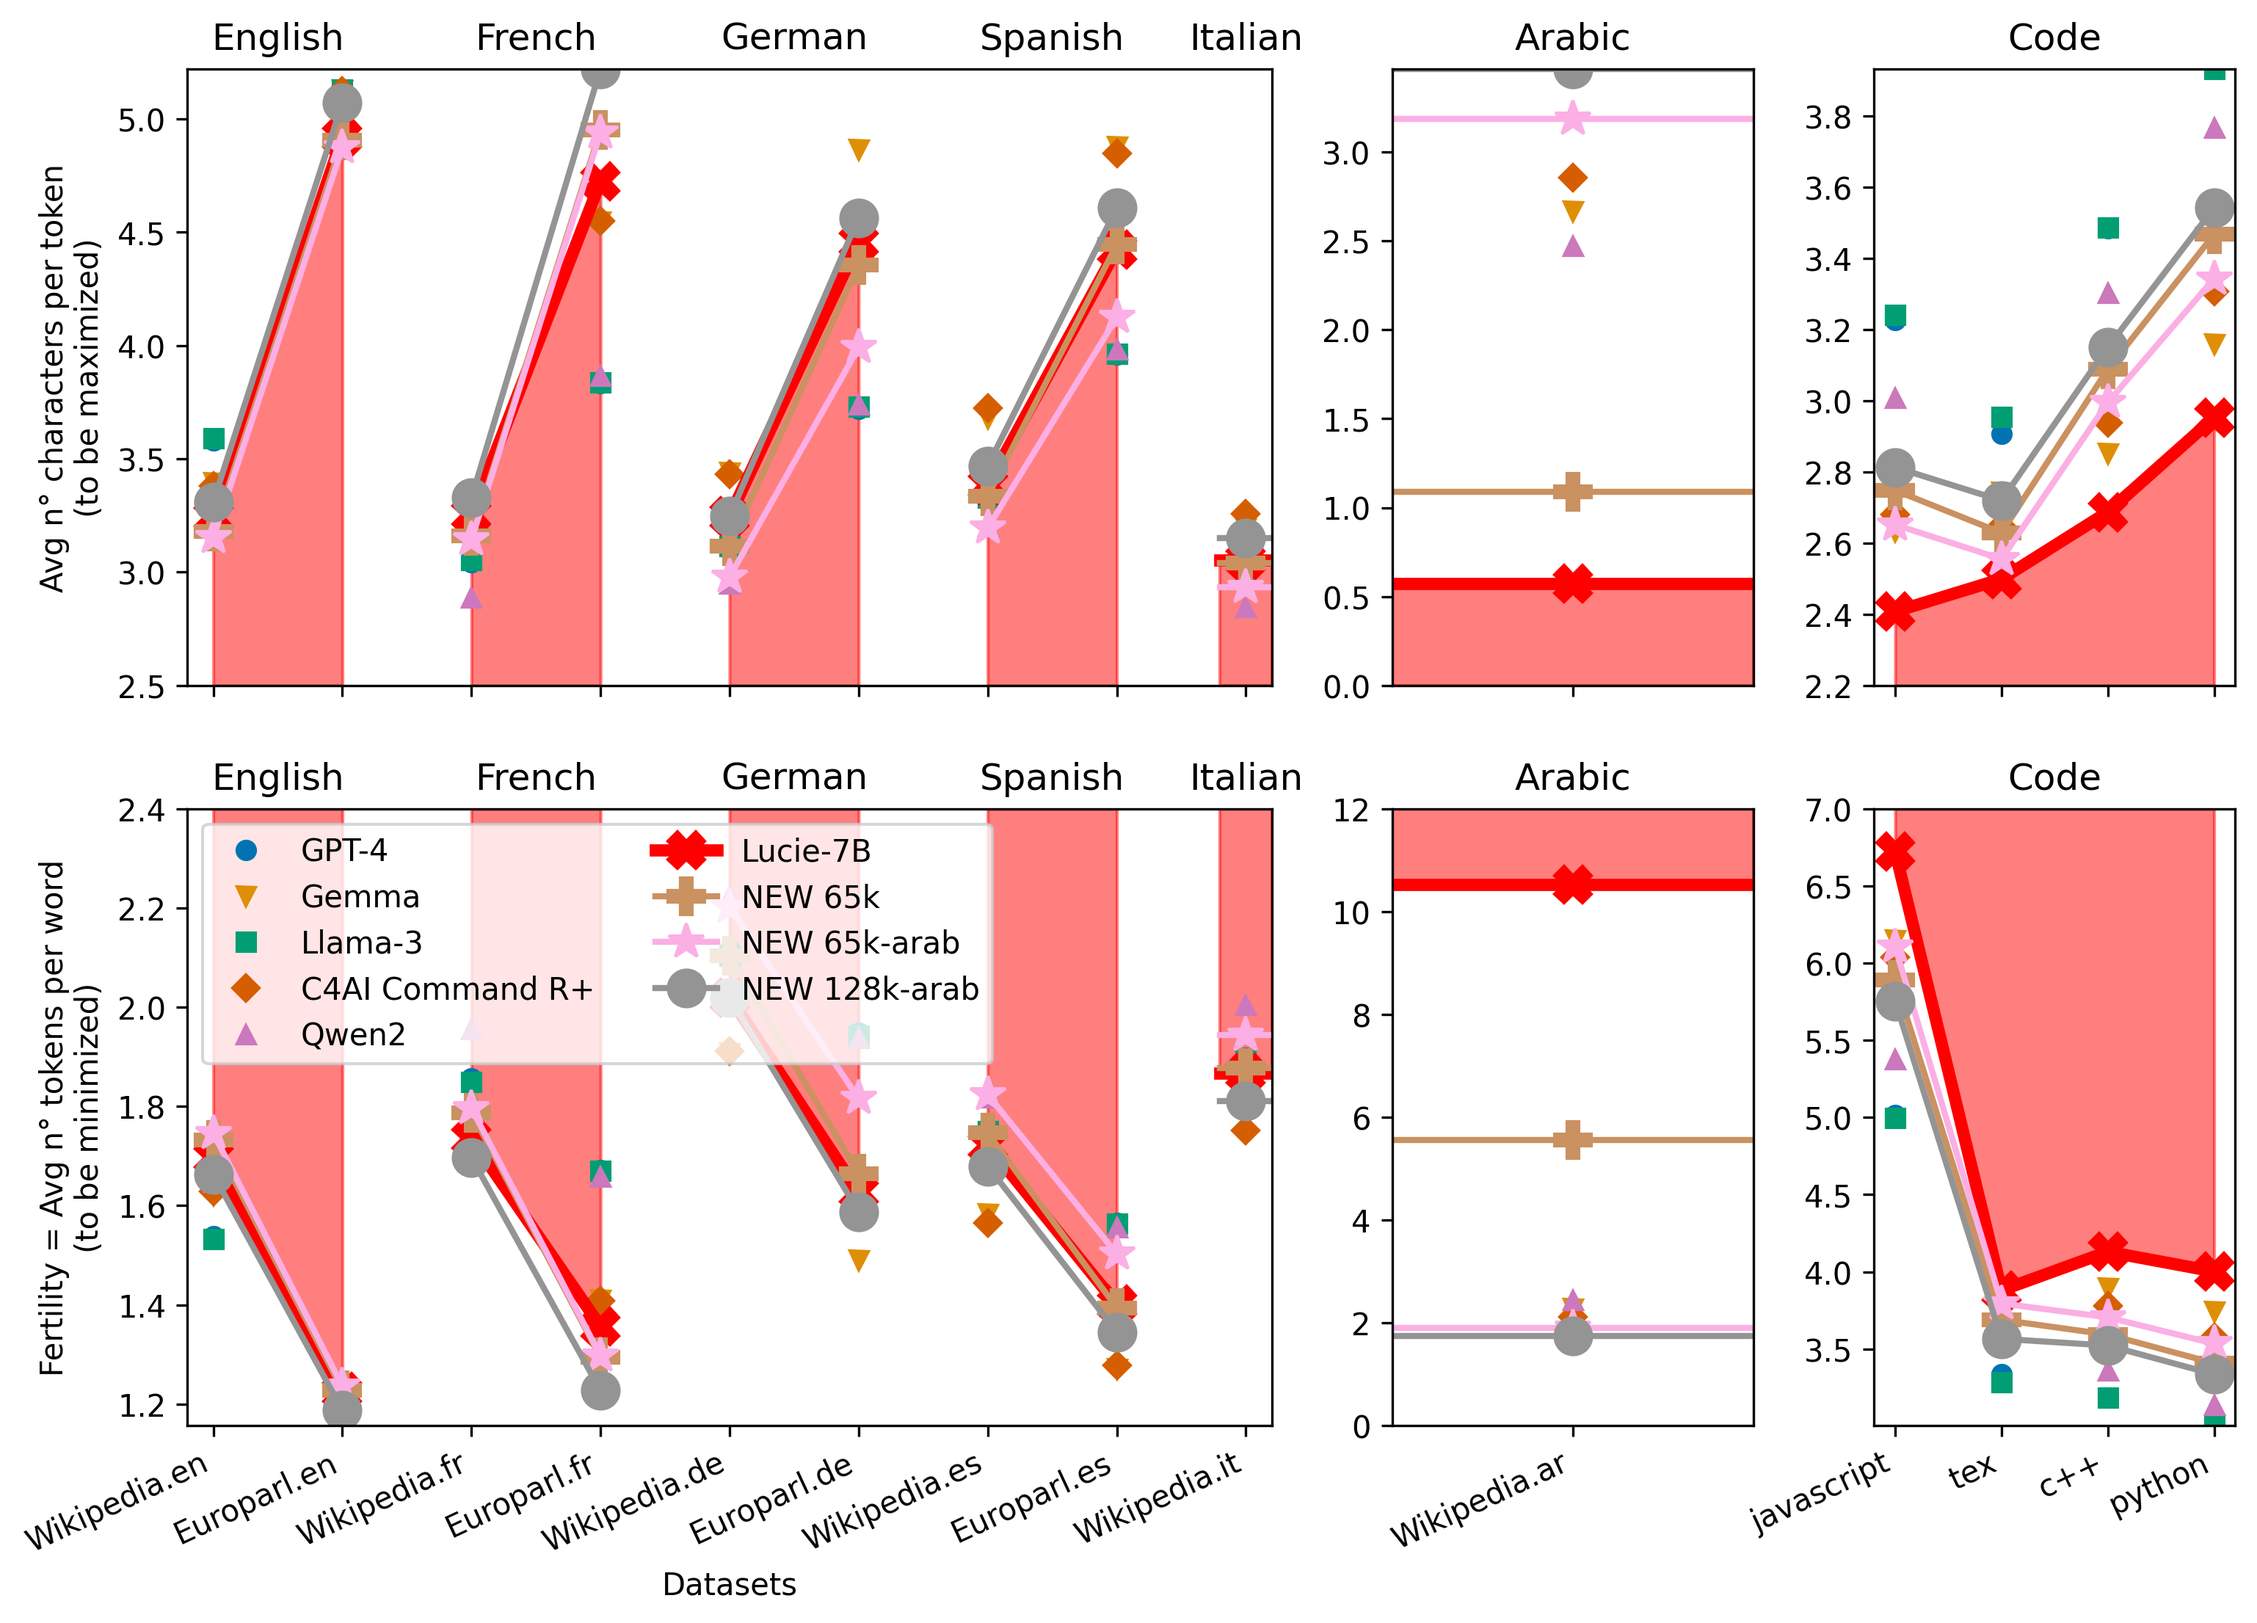
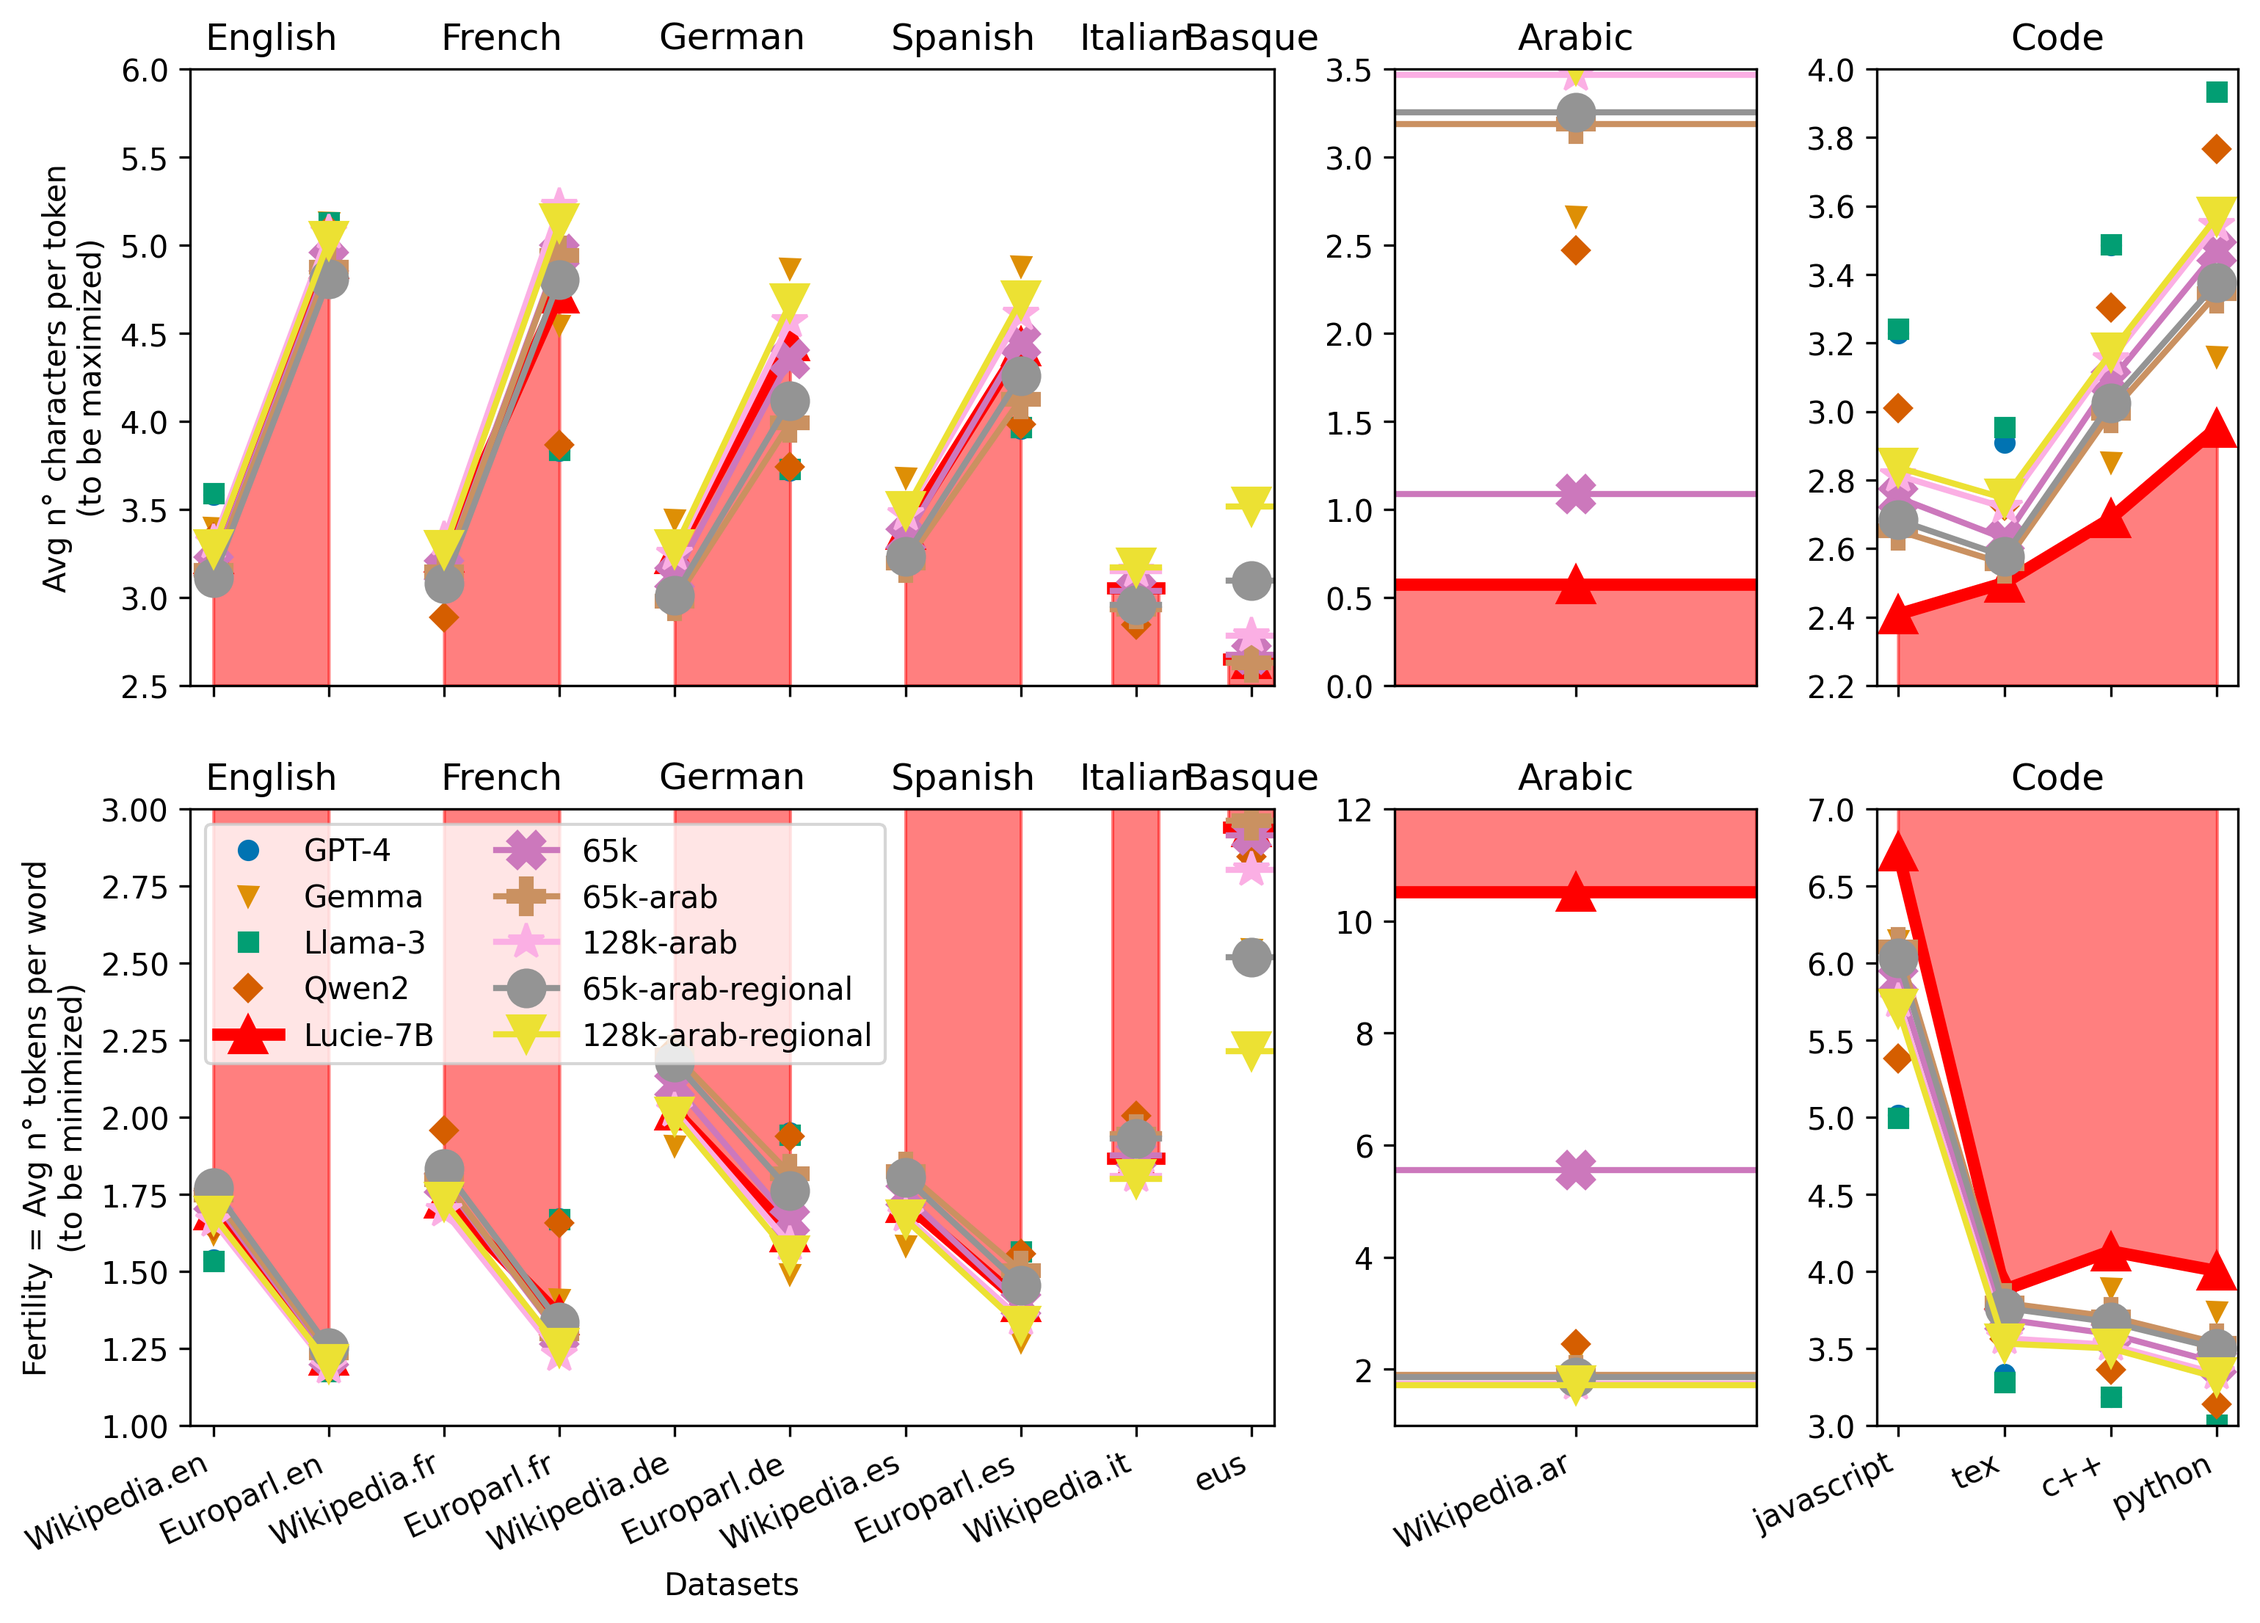
Update tokenizer chronicles with Basque

diff --git a/data/tokenization/train/tokenizer_eval.py b/data/tokenization/train/tokenizer_eval.py
@@ -22,6 +22,11 @@ evaluation_datasets["Wikipedia:ar"] = {
     "config": "20231101.ar",
     "max_num_words": 500_000_000,
 }
+evaluation_datasets["eus"] = {
+    "repo": "HuggingFaceFW/fineweb-2",
+    "config": "eus_Latn",
+    "max_num_words": 500_000_000,
+}
 for language in ["en", "fr", "de", "es"]:
     evaluation_datasets[f"Europarl:{language}"] = {
         "config": f"Europarl-{language}",

diff --git a/data/tokenization/train/chronicles/README.md b/data/tokenization/train/chronicles/README.md
@@ -4,13 +4,14 @@ Several tokenizers were trained, with different sizes (65k and 128k), and includ
 
 There were three sources of training data:
 1. **FineWeb-Edu**: A large English dataset, mainly focused on educational content.
-2. **FineWeb-2**: A multilingual dataset, including French, Arabic, German, Dutch, Italian, Spanish, and Portuguese.
+2. **FineWeb-2**: A multilingual dataset, including French, Arabic, German, Dutch, Italian, Spanish, Portuguese, regional languages and dialects, and some Creole languages.
 3. **StarCoder**: A large code dataset.
 
 Each source was randomly subsampled to create a balanced training set across languages, with a focus on French, English and Arabic.
 The following table summarizes all the training data used:
 | language   | source      | # docs   | # words   | # chars   |
 |:-----------|:------------|:---------|:----------|:----------|
+| code       | [StarCoder](https://huggingface.co/datasets/bigcode/starcoderdata)   | 1.53 M   | 572.41 M  | 5.82 B    |
 | English    | [FineWeb-Edu](https://huggingface.co/datasets/HuggingFaceFW/fineweb-edu) | 1.11 M   | 860.09 M  | 5.30 B    |
 | French     | [FineWeb-2](https://huggingface.co/datasets/HuggingFaceFW/fineweb-2)   | 1.61 M   | 874.40 M  | 5.42 B    |
 | Arabic     | FineWeb-2   | 1.86 M   | 909.34 M  | 5.36 B    |
@@ -19,9 +20,21 @@ The following table summarizes all the training data used:
 | Italian    | FineWeb-2   | 339.42 K | 174.08 M  | 1.12 B    |
 | Spanish    | FineWeb-2   | 331.88 K | 178.50 M  | 1.08 B    |
 | Portuguese | FineWeb-2   | 360.12 K | 174.91 M  | 1.08 B    |
-| Code       | [StarCoder](https://huggingface.co/datasets/bigcode/starcoderdata)   | 1.53 M   | 572.41 M  | 5.82 B    |
+| Basque                     | FineWeb-2 | 45.11 K  | 16.32 M   | 127.31 M  |
+| Baba Malay                 | FineWeb-2 | 768      | 481.41 K  | 3.23 M    |
+| Occitan                    | FineWeb-2 | 1.03 K   | 475.13 K  | 2.84 M    |
+| Corsican                   | FineWeb-2 | 737      | 463.97 K  | 2.73 M    |
+| Catalan                    | FineWeb-2 | 971      | 388.03 K  | 2.34 M    |
+| Saint Lucian Creole French | FineWeb-2 | 1.05 K   | 418.69 K  | 2.18 M    |
+| Réunion Creole French      | FineWeb-2 | 1.72 K   | 444.16 K  | 2.11 M    |
+| Breton                     | FineWeb-2 | 1.07 K   | 385.88 K  | 2.10 M    |
+| Guadeloupean Creole French | FineWeb-2 | 1.03 K   | 399.46 K  | 2.04 M    |
+| Tahitian                   | FineWeb-2 | 393      | 440.30 K  | 1.99 M    |
+| Picard                     | FineWeb-2 | 1.19 K   | 306.08 K  | 1.72 M    |
+| Seselwa Creole French      | FineWeb-2 | 89       | 299.35 K  | 1.59 M    |
+| Guianese Creole French     | FineWeb-2 | 6        | 840       | 4.91 K    |
 
-The dataset distribution, when including Arabic data, is as follows:
+The dataset distribution, when including all data (with Arabic and regional languages), is as follows:
 ![Training Data Distribution](training_data.png)
 
 Compression performances are the following:
